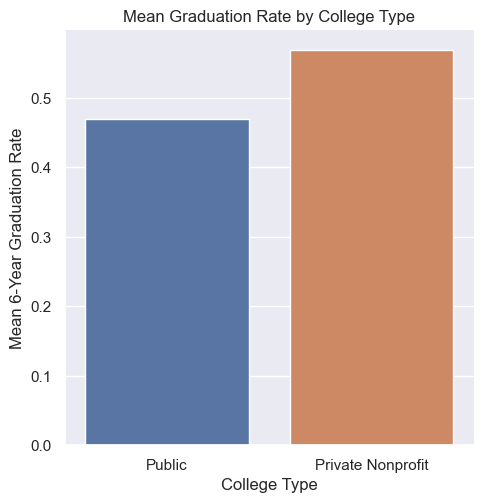
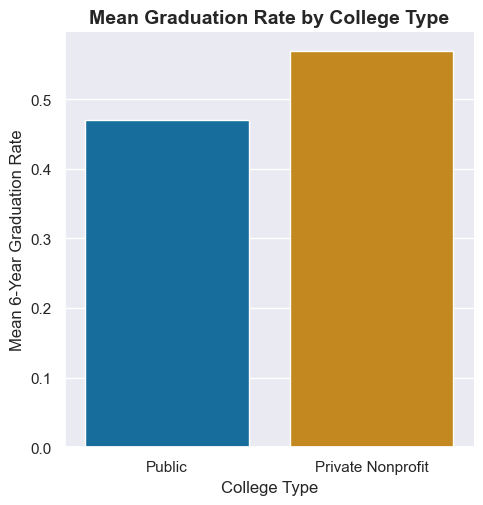
Updated graphs

diff --git a/eda.py b/eda.py
@@ -125,12 +125,14 @@ def plot_bar_by_control(scorecard: pd.DataFrame) -> None:
         y='C150_4',
         kind='bar',
         hue='CONTROL',
+        palette='colorblind',
         errorbar=None
     )
 
-    plt.xlabel('College Type')
-    plt.ylabel('Mean 6-Year Graduation Rate')
-    plt.title('Mean Graduation Rate by College Type')
+    plt.xlabel('College Type', fontsize=12)
+    plt.ylabel('Mean 6-Year Graduation Rate', fontsize=12)
+    plt.title('Mean Graduation Rate by College Type',
+              fontsize=14, weight='bold')
 
     plt.savefig('images/grad_rate_by_control.png', bbox_inches='tight')
     plt.close()
@@ -148,12 +150,14 @@ def plot_earnings_by_control(scorecard: pd.DataFrame) -> None:
     sns.boxplot(
         data=scorecard,
         x='CONTROL',
-        y='MD_EARN_WNE_P10'
+        y='MD_EARN_WNE_P10',
+        palette='colorblind'
     )
 
-    plt.xlabel('College Type')
-    plt.ylabel('Median Earnings 10 Years After Entry (USD)')
-    plt.title('Post-Graduation Earnings by College Type')
+    plt.xlabel('College Type', fontsize=12)
+    plt.ylabel('Median Earnings 10 Years After Entry (USD)', fontsize=12)
+    plt.title('Post-Graduation Earnings by College Type',
+              fontsize=14, weight='bold')
 
     plt.savefig('images/earnings_by_control.png', bbox_inches='tight')
     plt.close()
@@ -171,12 +175,14 @@ def plot_grad_rate_distribution(scorecard: pd.DataFrame) -> None:
     sns.histplot(
         scorecard['C150_4'],
         bins=30,
-        kde=True
+        kde=True,
+        color='tab:blue'
     )
 
-    plt.xlabel('6-Year Graduation Rate')
-    plt.ylabel('Number of Colleges')
-    plt.title('Distribution of College Graduation Rates')
+    plt.xlabel('6-Year Graduation Rate', fontsize=12)
+    plt.ylabel('Number of Colleges', fontsize=12)
+    plt.title('Distribution of College Graduation Rates',
+              fontsize=14, weight='bold')
 
     plt.savefig('images/grad_rate_distribution.png', bbox_inches='tight')
     plt.close()
@@ -313,12 +319,14 @@ def plot_grad_rate_by_income_level(merged_census: pd.DataFrame) -> None:
         x='IncomeLevel',
         y='C150_4',
         order=level_order,
+        palette='colorblind',
         errorbar=None
     )
 
-    plt.xlabel('State Income Level')
-    plt.ylabel('Mean 6-Year Graduation Rate')
-    plt.title('Mean Graduation Rate by State Income Level')
+    plt.xlabel('State Income Level', fontsize=12)
+    plt.ylabel('Mean 6-Year Graduation Rate', fontsize=12)
+    plt.title('Mean Graduation Rate by State Income Level',
+              fontsize=14, weight='bold')
 
     plt.savefig('images/grad_rate_by_income_level.png', bbox_inches='tight')
     plt.close()
@@ -337,12 +345,14 @@ def plot_income_vs_grad_rate(merged_census: pd.DataFrame) -> None:
         data=merged_census,
         x='MedianIncome',
         y='C150_4',
-        scatter_kws={'alpha': 0.6}
+        scatter_kws={'alpha': 0.6, 'color': 'tab:blue'},
+        line_kws={'color': 'darkorange'}
     )
 
-    plt.xlabel('State Median Household Income (USD)')
-    plt.ylabel('6-Year Graduation Rate')
-    plt.title('State Median Income vs College Graduation Rate')
+    plt.xlabel('State Median Household Income (USD)', fontsize=12)
+    plt.ylabel('6-Year Graduation Rate', fontsize=12)
+    plt.title('State Median Income vs College Graduation Rate',
+              fontsize=14, weight='bold')
 
     plt.savefig('images/income_vs_grad_rate.png', bbox_inches='tight')
     plt.close()
@@ -362,12 +372,14 @@ def plot_funding_vs_grad_rate(merged_sheeo: pd.DataFrame) -> None:
         data=merged_sheeo,
         x='FundingPerStudent',
         y='AvgGradRate',
-        scatter_kws={'alpha': 0.7}
+        scatter_kws={'alpha': 0.7, 'color': 'tab:green'},
+        line_kws={'color': 'darkred'}
     )
 
-    plt.xlabel('State Funding per Student (USD)')
-    plt.ylabel('Average Public College Graduation Rate')
-    plt.title('State Funding per Student vs Public College Graduation Rate')
+    plt.xlabel('State Funding per Student (USD)', fontsize=12)
+    plt.ylabel('Average Public College Graduation Rate', fontsize=12)
+    plt.title('State Funding per Student vs Public College Graduation Rate',
+              fontsize=14, weight='bold')
 
     plt.savefig('images/funding_vs_grad_rate.png', bbox_inches='tight')
     plt.close()
@@ -395,18 +407,31 @@ def plot_grad_rate_by_funding_level(merged_sheeo: pd.DataFrame) -> None:
         x='FundingLevel',
         y='AvgGradRate',
         order=['Low Funding', 'Medium Funding', 'High Funding'],
+        palette='colorblind',
         errorbar=None
     )
 
-    plt.xlabel('State Funding Level')
-    plt.ylabel('Average Public College Graduation Rate')
-    plt.title('Graduation Rate by State Funding Level')
+    plt.xlabel('State Funding Level', fontsize=12)
+    plt.ylabel('Average Public College Graduation Rate', fontsize=12)
+    plt.title('Graduation Rate by State Funding Level',
+              fontsize=14, weight='bold')
 
     plt.savefig('images/grad_rate_by_funding_level.png', bbox_inches='tight')
     plt.close()
 
 
 def main():
+    """
+    Load datasets, generate summaries, and create visualizations
+    for college data.
+
+    - Loads Scorecard, Census, and SHEEO data and prints their shapes.
+    - Reports missing values and computes summary statistics.
+    - Produces plots for graduation rates, earnings, income, and funding.
+    - Merges datasets (Scorecard + Census, Scorecard + SHEEO) and
+      analyzes relationships.
+    - Prints merged dataset shapes and verifies assumptions for analysis.
+    """
     scorecard = load_scorecard("data/college_scorecard_clean.csv")
     census = load_census("data/census_median_income.csv")
     sheeo = load_sheeo("data/SHEEO_FY2024.csv")
@@ -450,7 +475,7 @@ def main():
 
     categorical_summary(merged_scorecard_census['IncomeLevel'],
                         'Income Level (Scorecard + Census)')
-    verify_test_assumptions(scorecard, merged_scorecard_census, 
+    verify_test_assumptions(scorecard, merged_scorecard_census,
                             merged_scorecard_sheeo)
 
 

diff --git a/test_eda.py b/test_eda.py
@@ -130,6 +130,10 @@ def test_merge_scorecard_sheeo() -> None:
 
 def test_merge_drops_unmatched_states() -> None:
     scorecard = make_scorecard()
+    """
+    Tests that merge_scorecard_census drops colleges whose state
+    is not present in the Census dataset.
+    """
 
     # Census only has Washington and California, not Texas
     census_partial = pd.DataFrame({
@@ -181,6 +185,10 @@ def test_income_level_assignment() -> None:
 
 
 def main():
+    """
+    Runs all four unit tests for the eda module and prints a
+    confirmation message if all pass.
+    """
     test_merge_scorecard_census()
     test_merge_scorecard_sheeo()
     test_merge_drops_unmatched_states()

diff --git a/main.py b/main.py
@@ -117,6 +117,14 @@ def filter_sheeo_data() -> None:
 
 
 def main():
+    """
+    Perform data cleaning and preprocessing for college analysis.
+
+    - Cleans the College Scorecard dataset.
+    - Cleans the Census dataset.
+    - Converts SHEEO Excel files to CSV format.
+    - Filters SHEEO data for analysis.
+    """
     clean_college_scorecard_data()
     clean_census_data()
     convert_sheeo_xlsx_to_csv()
